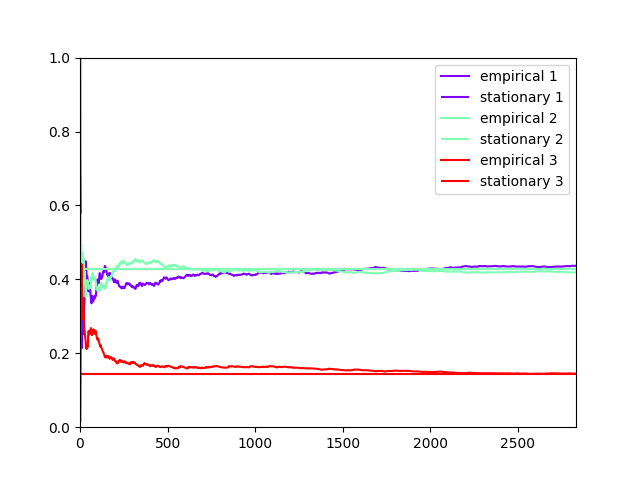
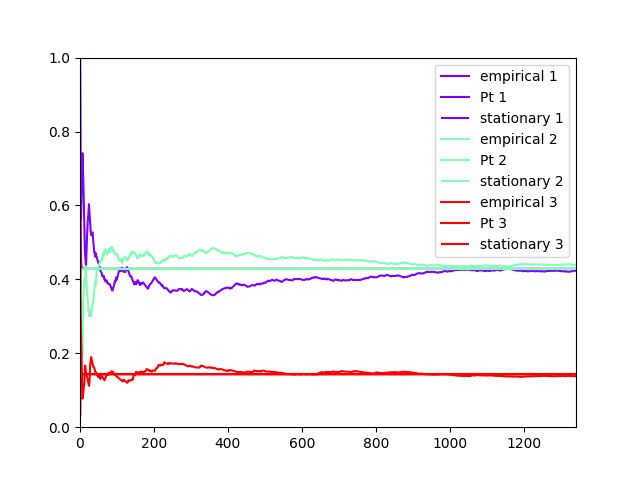
17

diff --git a/main.py b/main.py
@@ -147,13 +147,16 @@ def run_simulation(dict_states: dict, initial_state_index: int = 1,
                 if counter0 == len(states):
                     converge = True
 
-        list_state_times.append((t0, t, empirical_distribution, error))
+        diff_state: float = diff[actual_state_index]
+        vec0: float = vector0[actual_state_index]
+
+        list_state_times.append((t0, t, empirical_distribution, vec0, error, diff_state))
 
         print(f"n: {n0}, t: {t}, tau: {tau}, lambda: {rate_lambda}"
               f", accumulated: {accumulated_state_time}"
               f", empirical distribution: {empirical_distribution}"
               f", {current_state_index0}->{current_state_index}"
-              f", {error}")
+              f", {error}, {vec0}, {diff_state}")
 
     return dict_states_times, t_opt
 
@@ -183,10 +186,13 @@ def plot_results(t_opt: float, dict_states: dict, dict_states_times: dict,
 
             x: list = [tup[1] for tup in list_state_times]
             y: list = [tup[2] for tup in list_state_times]
+            y0: list = [tup[3] for tup in list_state_times]
 
             c = next(color)
 
             plt.plot(x, y, label=f"empirical {state_index}", c=c)
+            plt.plot(x, y0, label=f"Pt {state_index}", c=c)
+
             plt.hlines(y=[stationary], xmin=0, xmax=x[-1], colors=c, linestyles=['-'],
                        label=f"stationary {state_index}")
 

diff --git a/ctmc1.tex b/ctmc1.tex
@@ -62,7 +62,15 @@ $\begin{pmatrix}
     \frac{3}{7} & \frac{6}{7} & \frac{3}{7}
 \end{pmatrix}=\frac{12}{7}\tilde\pi$, so the two stationary vectors are identical up to a scalar multiple.
 
-c. Code is in the following \href{https://github.com/HaimL76/ctmc1.git}{git repository}: 
+c. Code is in the following git repository: \href{https://github.com/HaimL76/ctmc1.git}{ctmc1}.
+
+We present the calculations for the states in three methods:
+\begin{enumerate}
+    \item Using the Gillespie simulation (labeled \textbf{empirical}).
+    \item Using the equation $\pi{Q}=0$, as done in b (labeled \textbf{stationary}).
+    \item Calculating $P(t)=e^{tQ}$ (labeled as \textbf{Pt}).
+\end{enumerate}
+
 There are several possible sources for an error:
 \begin{enumerate}
     \item 
